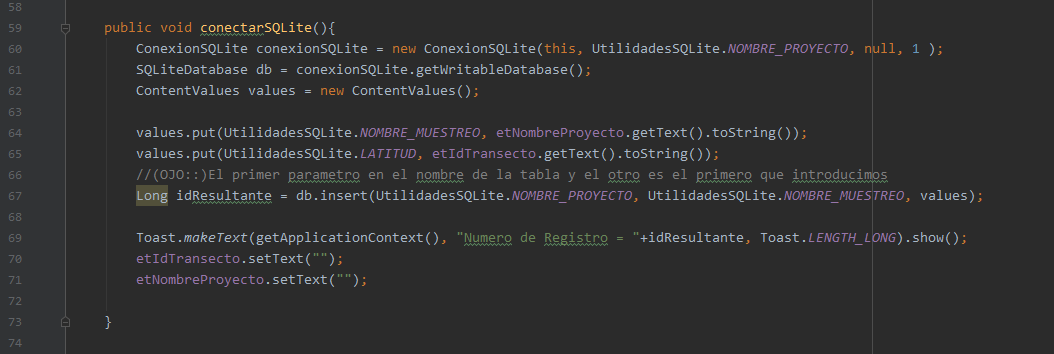
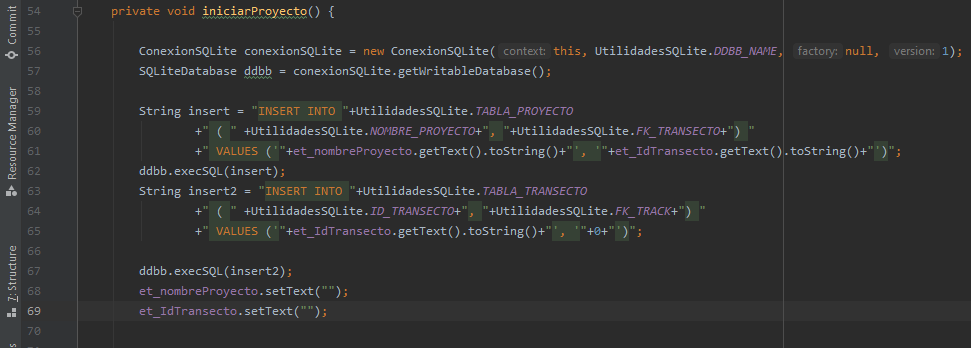
actualizado de java SQLite-conexion

diff --git a/z1_android/and_sqlite.html b/z1_android/and_sqlite.html
@@ -86,34 +86,46 @@
             <p class="card-text"></p>
 
             <p class="card-text">En la clase <b>Utilidades</b> declaramos como constantes los nombres de los campos
-              (Columnas) de la tabla, además la sentencia de creación de la tabla en <i>SQL</i>, en este caso al ID, se
-              le agregaron las propiedades de INTEGER PRIMARY KEY AUTOINCREMENT</p>
-            <pre class="pre">
-              public class UtilidadesSQLite {
+              (Columnas) de las tablas, además la sentencia de creación de cada  tabla en <i>SQL</i>; se presentan dos Tablas 
+              enlazadas mediante <b>Foreign Key</b>
+           
+           
+           
+              <pre class="pre">
+              <code>
+                public class UtilidadesSQLite  {
 
-                public static final String ID = "id";
-                public static final String NOMBRE_PROYECTO = "bbdd_tas";
-                public static final String NOMBRE_MUESTREO = "nombre_muestreo";
-                public static final String LATITUD = "latitud";
-                public static final String LONGITUD = "longitud";
-                public static final String ALTURA = "altura";
-                public static final String FECHA = "fecha";
-                public static final String HORA = "hora";
-                public static final String TAXON = "taxon";
-                public static final String CANTIDAD = "cantidad";
-            
-                public static final String CREAR_TABLA_PROYECTO = "CREATE TABLE "+NOMBRE_PROYECTO+" ("
-                        +ID+" INTEGER PRIMARY KEY AUTOINCREMENT, "
-                        +NOMBRE_MUESTREO+" TEXT, "
-                        +LATITUD+" TEXT, "
-                        +LONGITUD+" TEXT, "
-                        +ALTURA+" TEXT, "
-                        +FECHA+" TEXT, "
-                        +HORA+" TEXT, "
-                        +TAXON+" TEXT, "
-                        +CANTIDAD+" TEXT)";
-            }</pre>
-            <img class="card-img-top" src="IMG/SQLite/sq3.png" alt="Card image cap">
+
+                  public static final String DDBB_NAME="DDBB_tas";
+              
+              
+                  //////////  tabla transecto  /////////////
+              
+                  public static final String TABLA_TRANSECTO = "tabla_transecto";
+                  public static final String ID_TRANSECTO = "id_transecto";
+                  public static final String FK_TRACK = "fk_track";
+              
+                  public static final String CREAR_TABLA_TRANSECTO = "CREATE TABLE "
+                          +TABLA_TRANSECTO+" ("
+                          +ID_TRANSECTO+" TEXT PRIMARY KEY, "
+                          +FK_TRACK+" TEXT )";
+              
+              
+                  //////////  tabla proyecto  /////////////
+              
+                  public static final String TABLA_PROYECTO = "tabla_proyecto";
+                  public static final String NOMBRE_PROYECTO = "nombre_proyecto";
+                  public static final String FK_TRANSECTO = "fk_transecto";
+              
+              
+                  public static final String CREAR_TABLA_PROYECTO = "CREATE TABLE "
+                          +TABLA_PROYECTO+" ("
+                          +NOMBRE_PROYECTO+" TEXT, "
+                          +FK_TRANSECTO+" TEXT, FOREIGN KEY("+FK_TRANSECTO+") REFERENCES "+TABLA_TRANSECTO+"( "+ID_TRANSECTO+") )";
+                }           
+          </code>
+          </pre>
+           
             <p class="card-text"></p>
             <p class="card-text">Pasamos a la clase <b>Conexión</b>, en el método <b>onCreate()</b> indicamos la
               ejecución del SQL,
@@ -131,12 +143,14 @@
             
                 @Override
                 public void onCreate(SQLiteDatabase db) {
-                    db.execSQL(UtilidadesSQLite.CREAR_TABLA_PROYECTO );
+                  db.execSQL(UtilidadesSQLite.CREAR_TABLA_TRANSECTO);
+                  db.execSQL(UtilidadesSQLite.CREAR_TABLA_PROYECTO);
                 }
             
                 @Override
                 public void onUpgrade(SQLiteDatabase db, int oldVersion, int newVersion) {
-                    db.execSQL("DROP TABLE IF EXISTS " + UtilidadesSQLite.NOMBRE_PROYECTO);
+                  db.execSQL("DROP TABLE IF EXISTS "+UtilidadesSQLite.TABLA_PROYECTO);
+                  db.execSQL("DROP TABLE IF EXISTS "+UtilidadesSQLite.TABLA_TRANSECTO);
                 }
             }</pre>
 
@@ -152,19 +166,22 @@
               el primer parametro es el nombre de la BBDD, seguido por el primer campo y value.
               además al final se coloca el método setText con comillas para dejar en blanco las casillas </p>
             <pre class="pre">
-                public void conectarSQLite(){
-                  ConexionSQLite conexionSQLite = new ConexionSQLite(this, UtilidadesSQLite.NOMBRE_PROYECTO, null, 1 );
-                  SQLiteDatabase db = conexionSQLite.getWritableDatabase();
-                  ContentValues values = new ContentValues();
-          
-                  values.put(UtilidadesSQLite.NOMBRE_MUESTREO, etNombreProyecto.getText().toString());
-                  values.put(UtilidadesSQLite.LATITUD, etIdTransecto.getText().toString());
-                  
-                  Long idResultante = db.insert(UtilidadesSQLite.NOMBRE_PROYECTO, UtilidadesSQLite.NOMBRE_MUESTREO, values);
-          
-                  Toast.makeText(getApplicationContext(), "Numero de Registro = "+idResultante, Toast.LENGTH_LONG).show();
-                  etIdTransecto.setText("");
-                  etNombreProyecto.setText("");
+            private void iniciarProyecto() {
+              
+              ConexionSQLite conexionSQLite = new ConexionSQLite(this, UtilidadesSQLite.DDBB_NAME, null, 1);
+              SQLiteDatabase ddbb = conexionSQLite.getWritableDatabase();
+      
+              String insert = "INSERT INTO "+UtilidadesSQLite.TABLA_PROYECTO
+                      +" ( " +UtilidadesSQLite.NOMBRE_PROYECTO+", "+UtilidadesSQLite.FK_TRANSECTO+") "
+                      +" VALUES ('"+et_nombreProyecto.getText().toString()+"', '"+et_IdTransecto.getText().toString()+"')";
+              ddbb.execSQL(insert);
+              String insert2 = "INSERT INTO "+UtilidadesSQLite.TABLA_TRANSECTO
+                      +" ( " +UtilidadesSQLite.ID_TRANSECTO+", "+UtilidadesSQLite.FK_TRACK+") "
+                      +" VALUES ('"+et_IdTransecto.getText().toString()+"', '"+0+"')";
+      
+              ddbb.execSQL(insert2);
+              et_nombreProyecto.setText("");
+              et_IdTransecto.setText("");
               }
                 </pre>
 
